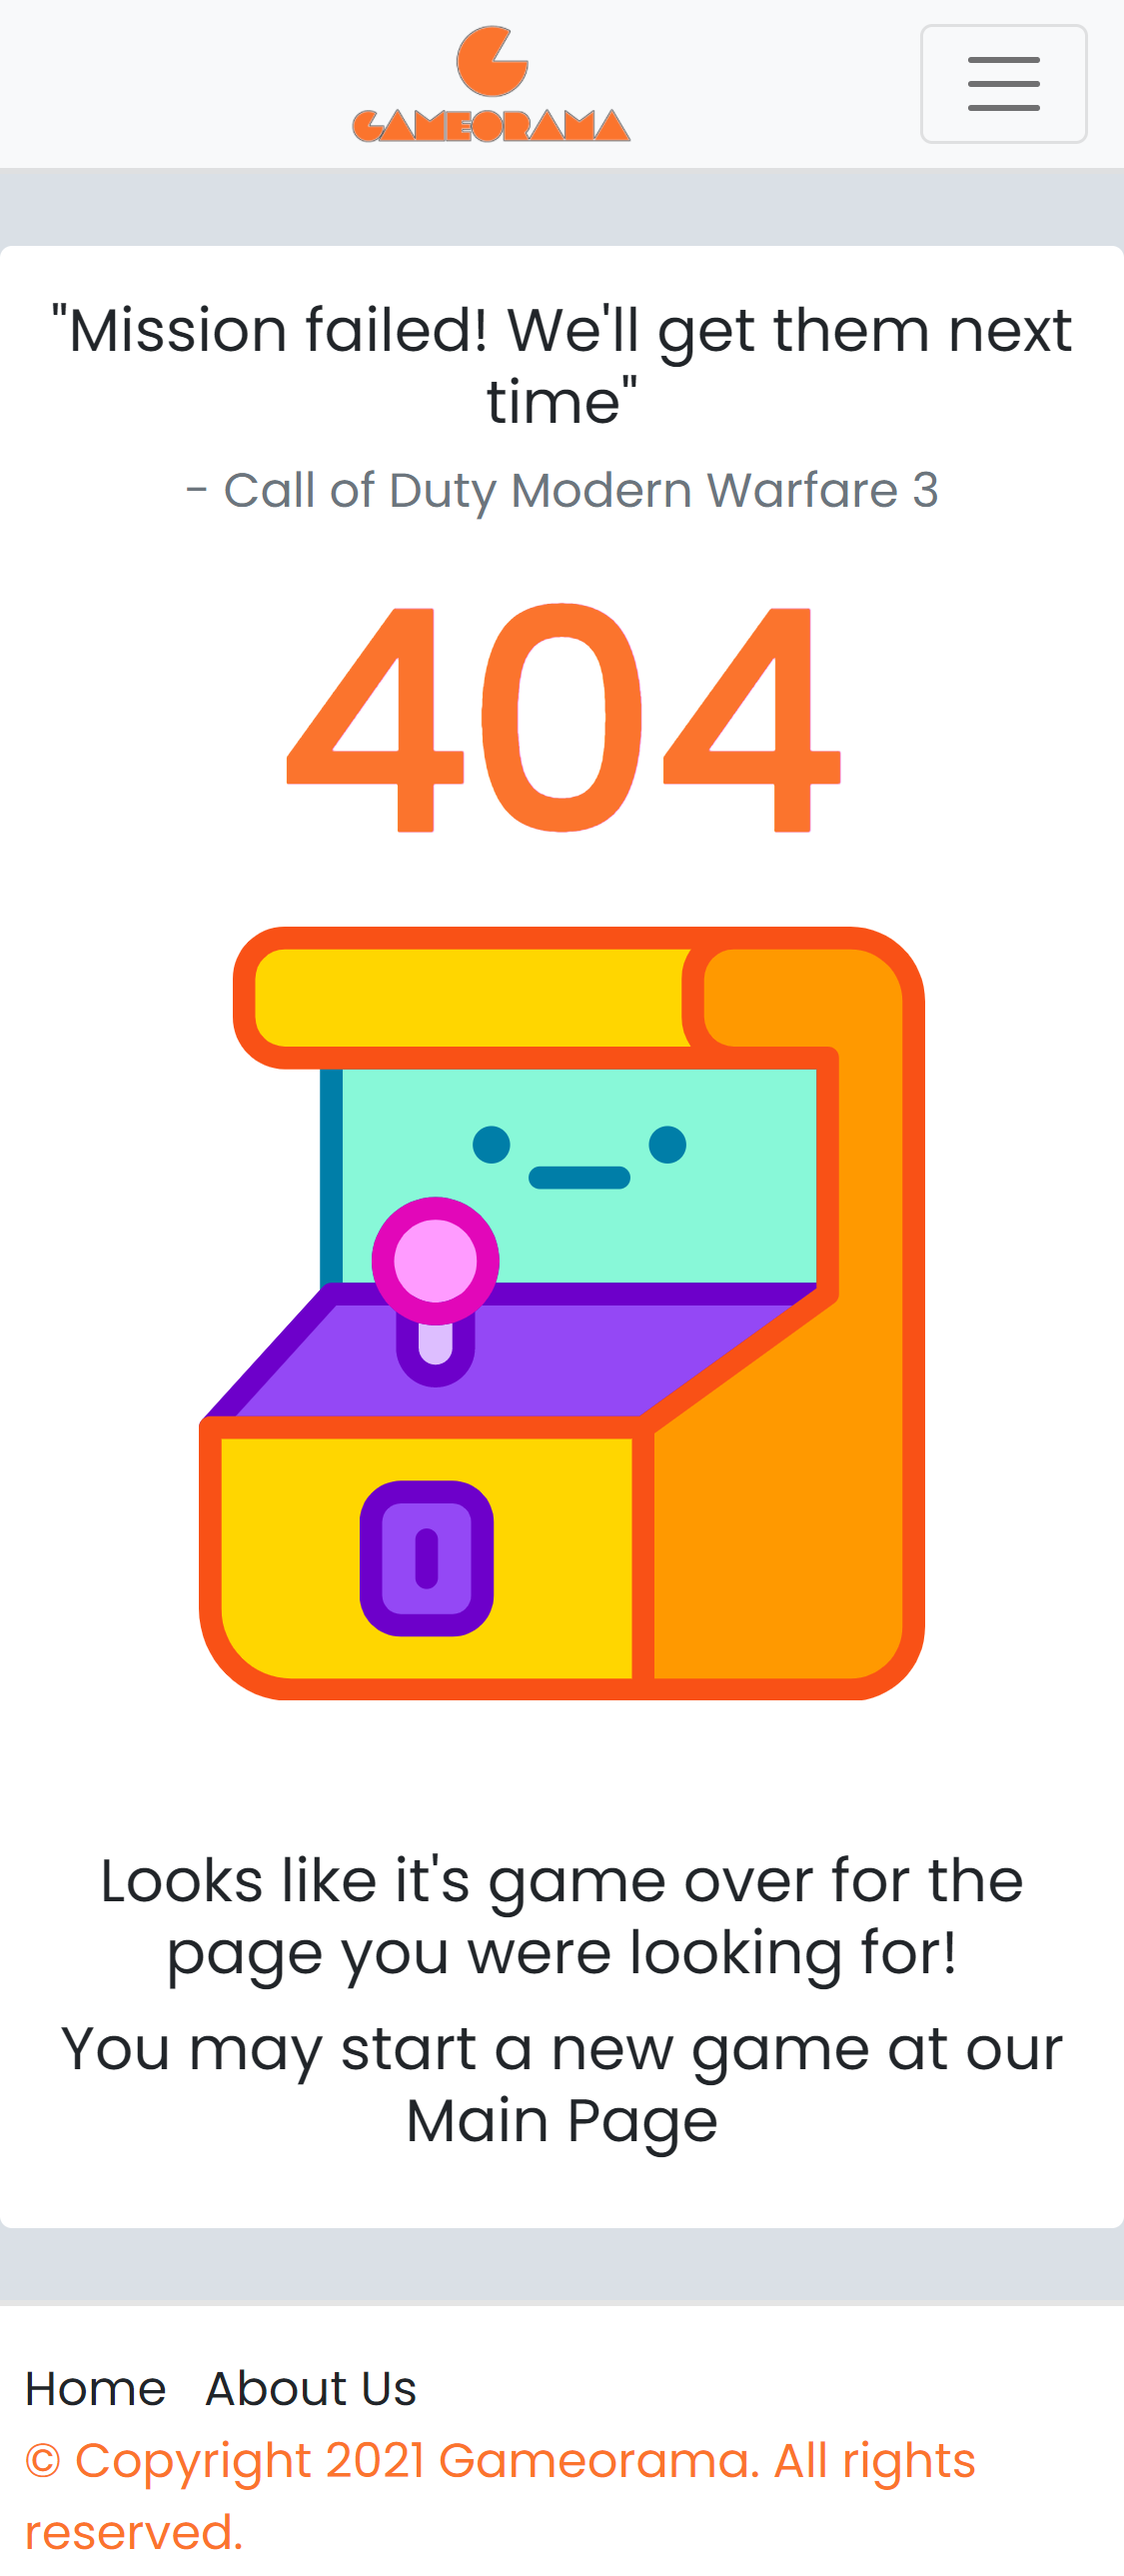
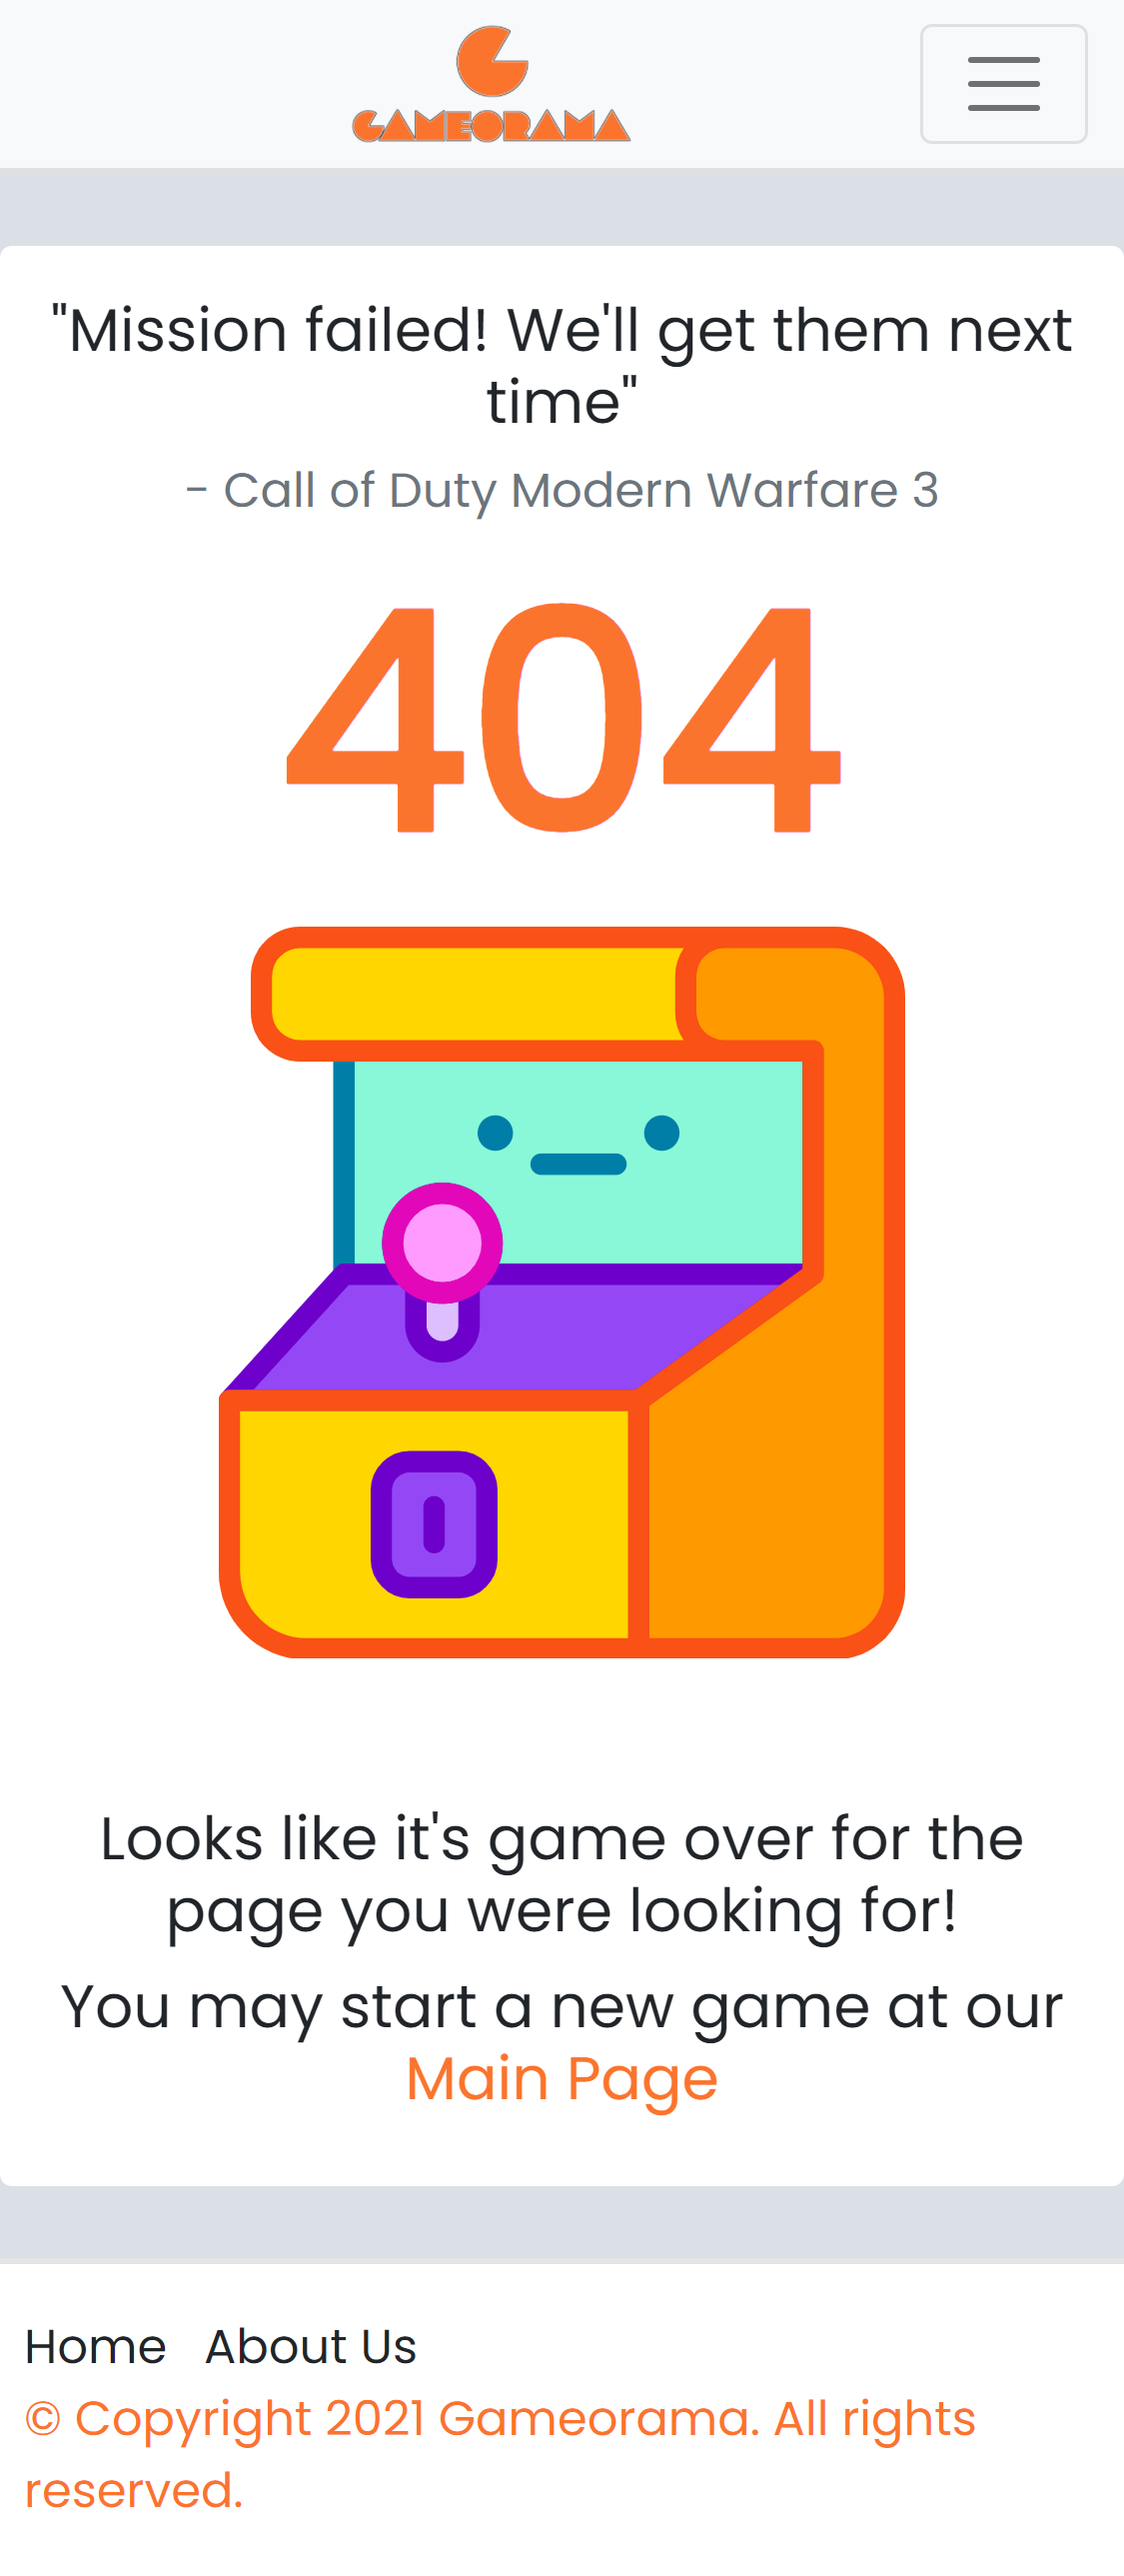
update about us and error pages

Changed region(s): [[0.0, 0.3415, 1.0, 0.9934]]

diff --git a/html/templates/tpl_about.php b/html/templates/tpl_about.php
@@ -1,52 +1,56 @@
 <?php function draw_about_us(){ ?>
-    <section class="p-3 p-lg-5 my-4 col-lg-7 bg-white container rounded">
-        <h2 class="h2 fw-bold ">About Page</h2>
-        <hr class="rounded"></hr>
+<section class="p-3 p-lg-5 my-4 col-lg-7 bg-white container rounded">
+    <h2 class="h2 fw-bold ">About Us</h2>
+    <hr class="rounded">
+    </hr>
 
-        <section>
-            <h3 class="mb-3 mt-4">About Gameorama</h3>
-            <p>The goal of Gameorama is to provide a platform for the gaming community to post, rate, and comment on the latest news, while also being able to follow their favorite videogame topics.</p>
-        </section>
-        
-        <hr class="admin_hr mt-4"></hr>
-        <section>
-        <h3 class="mb-3">Our team</h3>
-        <section class = "row">
-            <div class="card col-5 p-2 about-card">
-                <img src="../assets/andre.jpg" class="card-img-top rounded" alt="...">
-                <div class="card-body">
-                    <h4 class="card-title">André Nascimento</h4>
-                    <p class="card-text">Student at MIEIC. Proud Corgi lover.</p>
-                </div>
-            </div>
-
-            <div class="card col-5 offset-2 p-2 about-card">
-                <img src="../assets/caio.jpg" class="card-img-top rounded" alt="...">
-                <div class="card-body" >
-                    <h4 class="card-title">Caio Nogueira</h4>
-                    <p class="card-text">Student at MIEIC. Stays calm under pressure.</p>
-                </div>
-            </div>
-            
-            <div class="card col-5 mt-3 p-2 about-card">
-                <img src="../assets/diogo.jpg" class="card-img-top rounded" alt="...">
-                <div class="card-body">
-                    <h4 class="card-title">Diogo Almeida</h4>
-                    <p class="card-text">Student at MIEIC. Loves people from Paris.</p>
-                </div>
-            </div>
-            
-            <div class="card col-5 offset-2 mt-3 p-2 about-card">
-                <img src="../assets/sena.jpg" class="card-img-top rounded" alt="...">
-                <div class="card-body">
-                    <h4 class="card-title">Gustavo Sena</h4>
-                    <p class="card-text">Student at MIEIC. Coffee bringer.</p>
-                </div>
-            </div>
-        </section>
-        
-        </section>
-
+    <section>
+        <h3 class="mb-3 mt-4">About Gameorama</h3>
+        <p>The goal of Gameorama is to provide a platform for the gaming community to post, rate, and comment on the
+            latest news, while also being able to follow their favorite videogame topics.</p>
     </section>
 
+    <hr class="admin_hr mt-4">
+    </hr>
+
+    <section>
+        <h3 class="mb-3">Our team</h3>
+        <section class="team-cards">
+            <div class="row g-0 justify-content-around">
+                <div class="card col-12 col-md-5 p-2 about-card">
+                    <img src="../assets/andre.jpg" class="card-img-top rounded" alt="...">
+                    <div class="card-body">
+                        <h4 class="card-title">André Nascimento</h4>
+                        <p class="card-text">Student at MIEIC. Proud Corgi lover.</p>
+                    </div>
+                </div>
+
+                <div class="card col-12 col-md-5 mt-3 mt-md-0 p-2 about-card">
+                    <img src="../assets/caio.jpg" class="card-img-top rounded" alt="...">
+                    <div class="card-body">
+                        <h4 class="card-title">Caio Nogueira</h4>
+                        <p class="card-text">Student at MIEIC. Stays calm under pressure.</p>
+                    </div>
+                </div>
+            </div>
+            <div class="row g-0 mt-3 justify-content-around">
+                <div class="card col-12 col-md-5 p-2 about-card">
+                    <img src="../assets/diogo.jpg" class="card-img-top rounded" alt="...">
+                    <div class="card-body">
+                        <h4 class="card-title">Diogo Almeida</h4>
+                        <p class="card-text">Student at MIEIC. Loves people from Paris.</p>
+                    </div>
+                </div>
+
+                <div class="card col-12 col-md-5 mt-3 mt-md-0 p-2 about-card">
+                    <img src="../assets/sena.jpg" class="card-img-top rounded" alt="...">
+                    <div class="card-body">
+                        <h4 class="card-title">Gustavo Sena</h4>
+                        <p class="card-text">Student at MIEIC. Coffee bringer.</p>
+                    </div>
+                </div>
+            </div>
+        </section>
+    </section>
+</section>
 <?php } ?>

diff --git a/html/templates/tpl_error.php b/html/templates/tpl_error.php
@@ -1,4 +1,5 @@
 <?php function draw_error_page() { ?>
+    <div class="col d-flex align-items-center">
     <section class="p-3 p-lg-5 my-4 col-lg-7 container bg-white rounded">
         <h5 class="text-center">"Mission failed! We'll get them next time"</h5>
         <h6 class="text-center text-muted">- Call of Duty Modern Warfare 3</h6>
@@ -7,6 +8,7 @@
             <img class="error-picture" src=../assets/arcade-machine.svg alt="">
         </div>
         <h5 class="text-center img-fluid img-responsive mt-5">Looks like it's game over for the page you were looking for!</h5>
-        <h5 class="text-center">You may start a new game at our <a href="mainpage.php">Main Page</a></h5>
+        <h5 class="text-center">You may start a new game at our <a href="mainpage.php" class="color-orange">Main Page</a></h5>
     </section>
+    </div>
 <? } ?>
